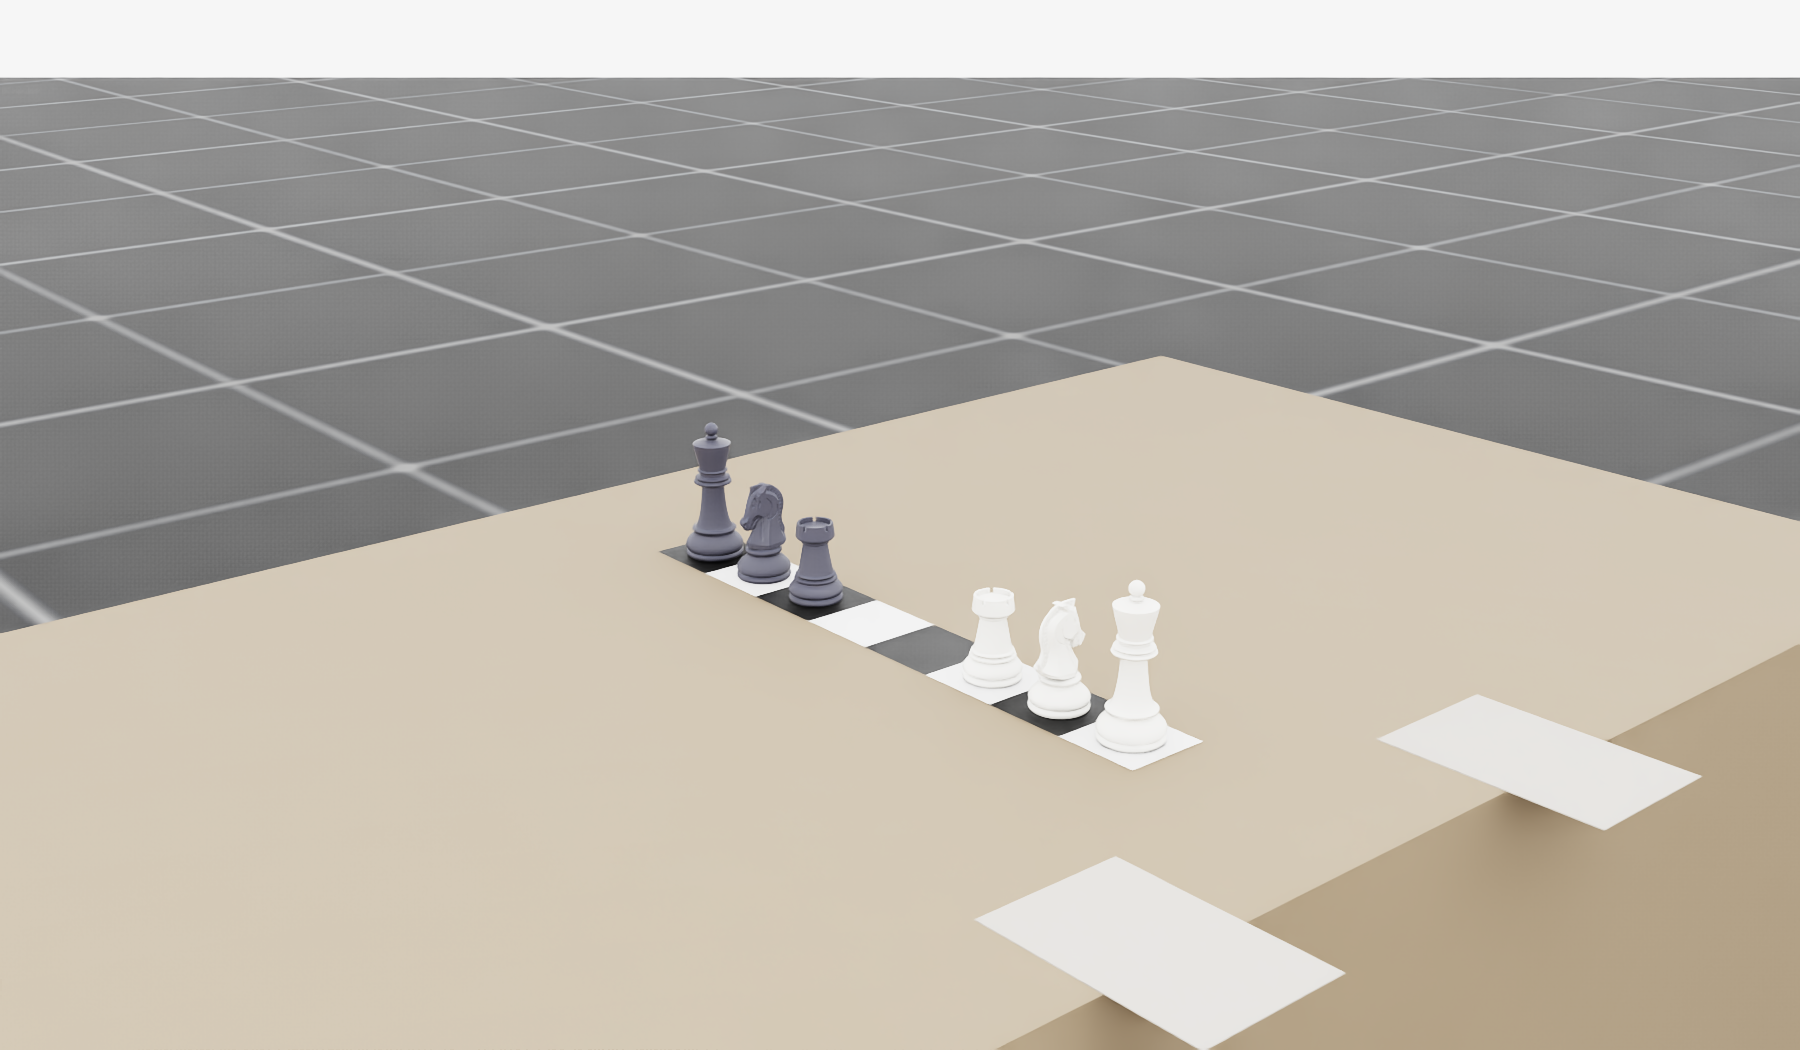
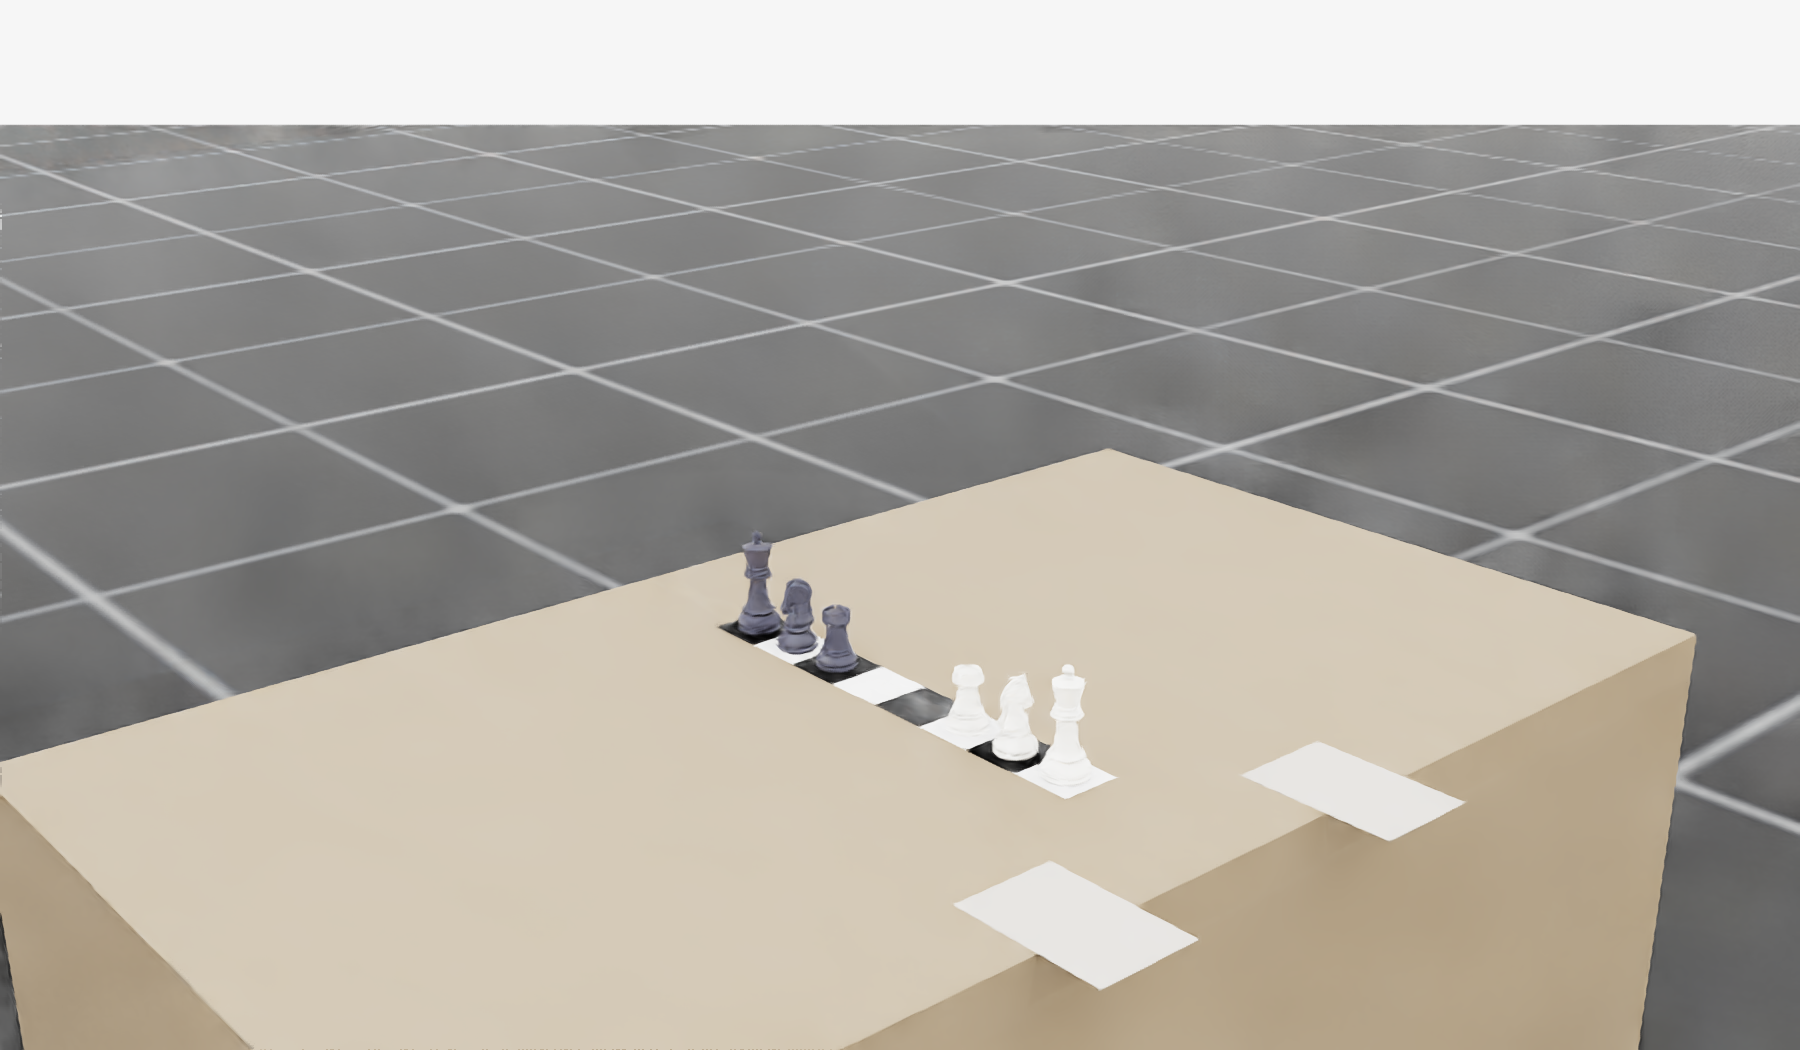
Reframe teaser cameras so whole robots are visible
Every panel previously showed only the base and lower arm. The replay camera
presets are aimed at the board from roughly wrist height, which is right for
watching a grasp and useless for a figure that has to show which robot it is.

Adds a "showcase" view to render_chess_demo.py that pulls back and raises the
look-at point, and re-renders all four arms mid-carry from their recorded
episodes. Also widens the two-arm hero camera, which was clipping both wrists at
the top of frame.

The 3x3 variant panel now uses a Franka pair rather than franka/piper: the piper
render put the far arm out of frame and left the near one reading as an
unidentifiable white shape, which is not a useful advert for cross-embodiment
support.

diff --git a/lab/scripts/make_teaser.py b/lab/scripts/make_teaser.py
@@ -14,21 +14,22 @@ def load(rel, box=None):
     im = Image.open(ROOT / rel).convert("RGB")
     return np.asarray(im.crop(box) if box else im)
 
-# Filmstrips are 3x2 grids of 1280x720; take the "carry" frame (row 1, col 0).
-CARRY = (0, 720, 1280, 1440)
-GRASP = (2560, 0, 3840, 720)
+# The "showcase" camera frames the whole arm; the default replay view is aimed at the
+# board and cuts every robot off above the elbow. Frame 03 is the carry moment, and the
+# top 44 px are trimmed to drop the burnt-in caption.
+CARRY_FRAME = (0, 44, 1280, 720)
 arms = [
-    ("Franka Panda", load("lab/datasets/renders_8x8/demo_0_filmstrip.png", CARRY)),
-    ("reBot",        load("lab/datasets/renders_rebot/demo_0_filmstrip.png", CARRY)),
-    ("Piper",        load("lab/datasets/renders_piper/demo_0_filmstrip.png", CARRY)),
-    ("YAM",          load("lab/datasets/renders_yam/demo_0_filmstrip.png", CARRY)),
+    ("Franka Panda", load("lab/docs/images/showcase_franka/demo_0_frames/03.png", CARRY_FRAME)),
+    ("reBot",        load("lab/docs/images/showcase_rebot/demo_0_frames/03.png", CARRY_FRAME)),
+    ("Piper",        load("lab/docs/images/showcase_piper/demo_0_frames/03.png", CARRY_FRAME)),
+    ("YAM",          load("lab/docs/images/showcase_yam/demo_0_frames/03.png", CARRY_FRAME)),
 ]
 variants = [
     # The 1D board runs away from the head-on camera, so it reads as a stub there;
               # the angled render shows all six pieces and the gap between the sides.
-              ("1D chess  ·  K N R", load("lab/docs/images/hero_1d_angle.png", (450, 430, 1350, 790))),
-    ("3x3 Hexapawn  ·  mixed arms", load("lab/docs/images/hero_3x3_hero.png", (430, 400, 1420, 795))),
-    ("4x4 minichess", load("lab/docs/images/hero_minichess_hero.png", (430, 400, 1420, 795))),
+              ("1D chess  ·  K N R", load("lab/docs/images/hero_1d_angle.png", (480, 480, 1380, 840))),
+    ("3x3 Hexapawn", load("lab/docs/images/hero_3x3_hero.png", (450, 640, 1350, 1000))),
+    ("4x4 minichess", load("lab/docs/images/hero_minichess_hero.png", (450, 620, 1350, 980))),
 ]
 hero = load("lab/docs/images/hero_minichess_hero.png", (60, 0, 1740, 1000))
 

diff --git a/lab/scripts/render_chess_demo.py b/lab/scripts/render_chess_demo.py
@@ -42,7 +42,7 @@ parser.add_argument("--video_stride", type=int, default=1, help="Keep every n-th
 parser.add_argument("--save_frames", action="store_true", help="Keep the individual key frames as PNGs.")
 parser.add_argument(
     "--view",
-    choices=("three_quarter", "front", "top"),
+    choices=("showcase", "three_quarter", "front", "top"),
     default="three_quarter",
     help="Camera placement relative to the board.",
 )
@@ -78,6 +78,10 @@ from isaaclab_tasks.utils import parse_env_cfg
 # on the table top and the capture tray is off to -y, so the default view keeps both
 # the board and the tray in shot.
 VIEWS = {
+    # Frames the whole arm, not just the board: the other views tilt down from
+    # roughly wrist height and cut the robot off above the elbow, which is fine for
+    # watching a grasp but useless for a figure that has to show which robot it is.
+    "showcase": ((1.32, -1.18, 1.78), (-0.02, 0.0, 1.02)),
     "three_quarter": ((0.78, -0.66, 1.24), (0.16, -0.12, 0.83)),
     "front": ((0.95, 0.0, 1.06), (0.12, 0.0, 0.84)),
     "top": ((0.26, -0.16, 1.55), (0.22, -0.14, 0.77)),

diff --git a/lab/scripts/render_game_hero.py b/lab/scripts/render_game_hero.py
@@ -21,8 +21,8 @@ from isaaclab_tasks.utils import parse_env_cfg
 import robochess.tasks  # noqa: F401
 
 VIEWS = {
-    "hero":  ((0.0, -1.85, 1.60), (0.0, 0.0, 0.92)),
-    "angle": ((-1.15, -1.35, 1.50), (0.0, 0.0, 0.88)),
+    "hero":  ((0.0, -2.75, 2.10), (0.0, 0.0, 1.20)),
+    "angle": ((-1.55, -1.80, 1.85), (0.0, 0.0, 1.00)),
 }
 
 def camera_cfg():
@@ -37,7 +37,7 @@ def camera_cfg():
 out = Path(args_cli.out); out.mkdir(parents=True, exist_ok=True)
 for scenario, pair in (("minichess", ("franka", "franka")),
                        ("1d", ("franka", "franka")),
-                       ("3x3", ("franka", "piper"))):
+                       ("3x3", ("franka", "franka"))):
     cfg = parse_env_cfg("RoboChess-Chess-Game-IK-Abs-v0", device=args_cli.device, num_envs=1)
     cfg.set_players(*pair)
     cfg.set_chess_scenario(scenario)
